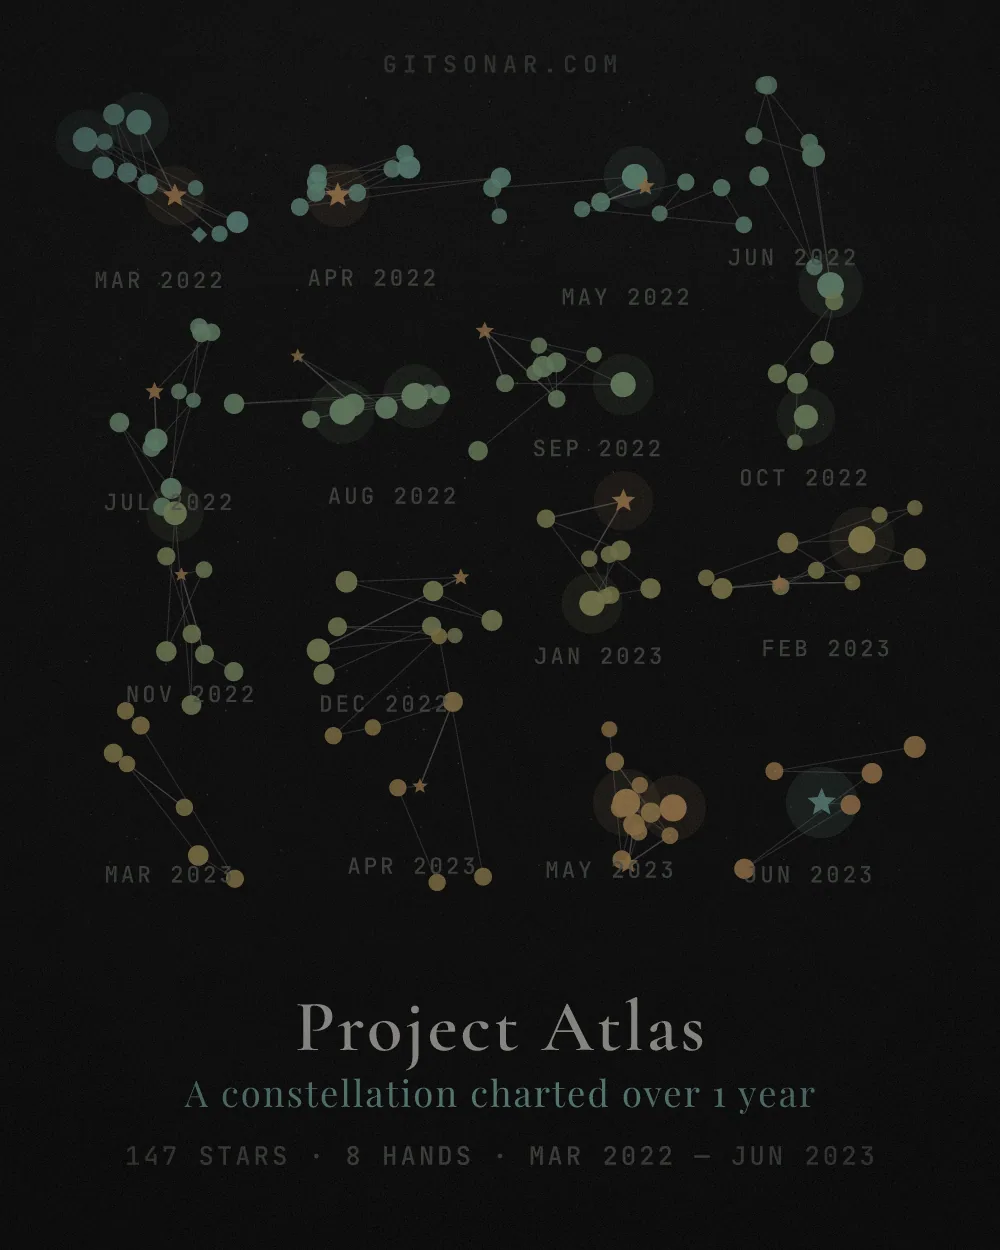
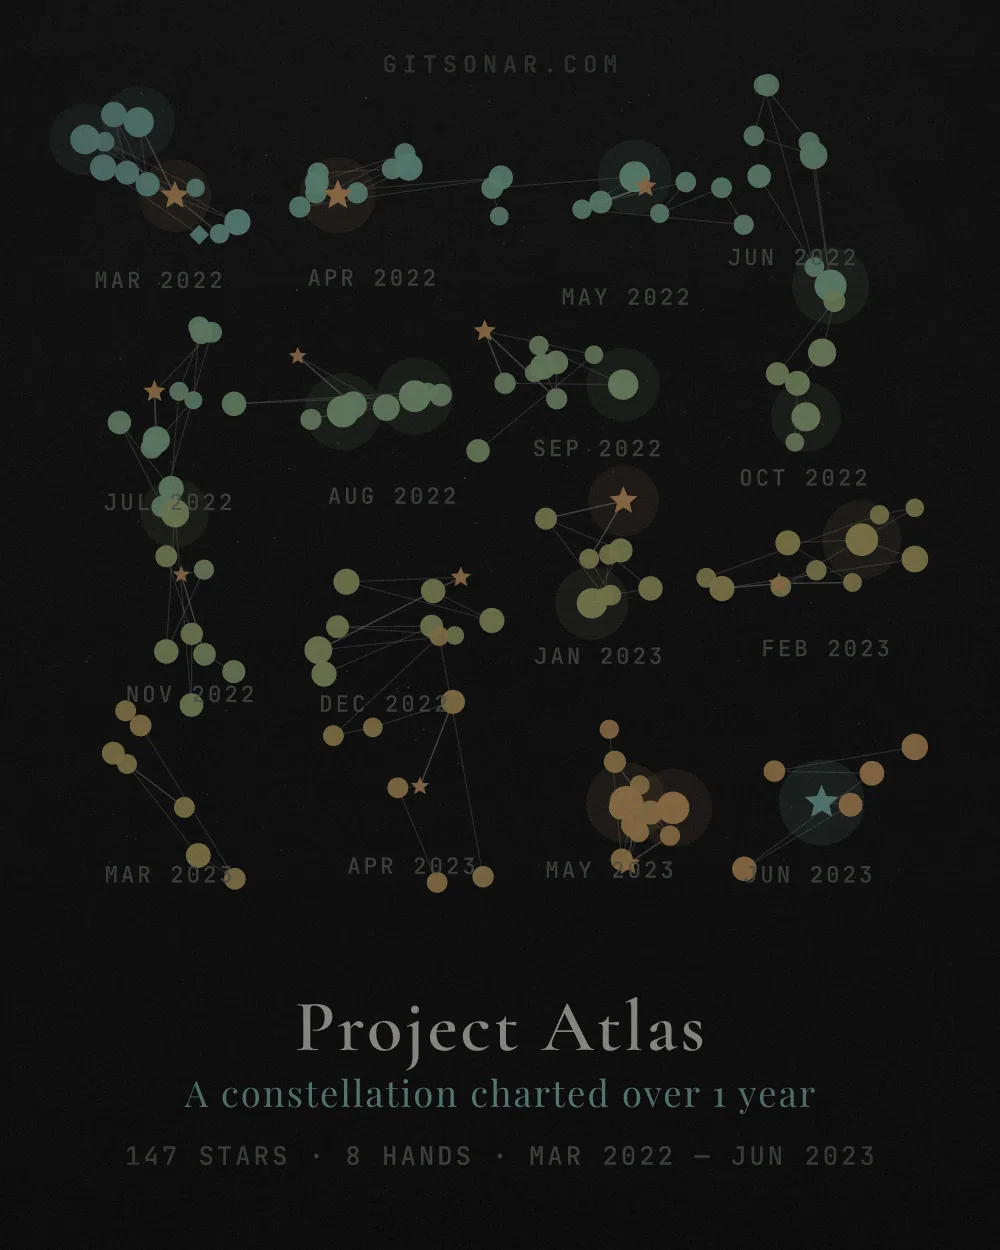
ui-hill-climb: round 3
Blind A/B (Claude Opus 5.5, fresh context): round 3 preferred on 8 views, 4 ties, 1 loss.

diff --git a/src/lib/demo-data/landing-posters.ts b/src/lib/demo-data/landing-posters.ts
@@ -22,20 +22,22 @@ interface Spec {
     medium: string;
 }
 
+// Ordered and themed so the wall alternates dark sheets, paper and colour
+// instead of bunching the dark ones together.
 const SPECS: Spec[] = [
     { id: 'pulsar', template: 'pulsar', themeId: 'night', label: 'Pulsar', medium: 'Commit cadence as ridgelines' },
     { id: 'growth-rings', template: 'growth-rings', themeId: 'paper', label: 'Growth rings', medium: 'One ring for every week' },
     { id: 'transit-map', template: 'transit-map', themeId: 'riso', label: 'Transit map', medium: 'Branches as lines, merges as interchanges' },
     { id: 'flow-field', template: 'flow-field', themeId: 'dawn', label: 'Flow field', medium: 'Authors as currents' },
-    { id: 'receipt', template: 'receipt', themeId: 'night', label: 'Receipt', medium: 'The whole history, itemised' },
+    { id: 'receipt', template: 'receipt', themeId: 'blueprint', label: 'Receipt', medium: 'The whole history, itemised' },
     { id: 'core-sample', template: 'core-sample', themeId: 'paper', label: 'Core sample', medium: 'A layer for every month' },
-    { id: 'punch-card', template: 'punch-card', themeId: 'blueprint', label: 'Punch card', medium: 'When the work happens' },
-    { id: 'weave', template: 'weave', themeId: 'night', label: 'Weave', medium: 'A row per week, dyed by its author' },
+    { id: 'punch-card', template: 'punch-card', themeId: 'night', label: 'Punch card', medium: 'When the work happens' },
+    { id: 'weave', template: 'weave', themeId: 'paper', label: 'Weave', medium: 'A row per week, dyed by its author' },
     { id: 'radial', template: 'radial-year', themeId: 'dawn', label: 'Year in code', medium: 'Twelve months in one orbit' },
     { id: 'album', template: 'album-tracklist', themeId: 'github', label: 'Album', medium: 'Top commits as a tracklist' },
     { id: 'movie', template: 'movie-one-sheet', themeId: 'night', label: 'Movie one-sheet', medium: 'The history, with full billing' },
+    { id: 'festival', template: 'festival', themeId: 'riso', label: 'Festival lineup', medium: 'Authors as the lineup' },
     { id: 'constellation', template: 'constellation', themeId: 'night', label: 'Constellation', medium: 'Every commit a star' },
-    { id: 'festival', template: 'festival', themeId: 'dracula', label: 'Festival lineup', medium: 'Authors as the lineup' },
     { id: 'swiss', template: 'swiss', themeId: 'paper', label: 'Swiss grid', medium: 'The numbers, set on a grid' },
 ];
 

diff --git a/src/lib/art/templates/constellation.ts b/src/lib/art/templates/constellation.ts
@@ -43,7 +43,7 @@ function build(ctx: TemplateContext): Scene {
     // The sky is divided into loose cells in reading order, so time still runs
     // left to right and top to bottom; each cell holds one month's commits as
     // a small, stretched cluster. The roll moves and turns every cluster.
-    const starBase = Math.max(2, Math.min(sky.w, sky.h) / 120);
+    const starBase = Math.max(2, Math.min(sky.w, sky.h) / 100);
     const spanDays = Math.max(1, signals.timeSpanMs / 86_400_000);
     const groups = Math.max(3, Math.min(16, Math.round(spanDays / 30)));
     const cols = Math.max(2, Math.round(Math.sqrt(groups * (sky.w / sky.h))));
@@ -100,7 +100,7 @@ function build(ctx: TemplateContext): Scene {
             // Time-tinted star color: older = accent2, newer = accent.
             fill: isMerge ? palette.accent2 : palette.sequential(t),
             shape: isRoot ? 'diamond' : isMerge ? 'star' : 'circle',
-            opacity: 0.7 + 0.3 * bright,
+            opacity: 0.85 + 0.15 * bright,
             glow: bright > 0.78 ? Math.min(1, encoding.glow * 0.7 + bright * 0.3) : 0,
             sha: n.id.slice(0, 7),
             kind: isRoot ? 'root' : isMerge ? 'merge' : 'normal',
@@ -204,7 +204,7 @@ function build(ctx: TemplateContext): Scene {
             color: adjustLightness(palette.bg, 0.03),
             color2: adjustLightness(palette.bg, -0.04),
             angle: 90,
-            vignette: 0.55,
+            vignette: 0.3,
             grain: 0.04,
         },
         strokes: [],

diff --git a/src/styles/studio.css b/src/styles/studio.css
@@ -885,6 +885,11 @@ html[data-lights="off"] .ps-swatches button {
   background: #16181a;
 }
 
+/* After hours the checked box keeps a pale edge so it still reads as a box. */
+html[data-lights="off"] .ps-checks input:checked {
+  border-color: #fbfbf8;
+}
+
 .ps-checks input:checked::after {
   content: "";
   width: 0.5rem;
@@ -942,7 +947,7 @@ html[data-lights="off"] .ps-swatches button {
 
   /* Short enough that the style strip and the first controls show beneath it. */
   .ps-stage {
-    height: 50dvh;
+    height: 57dvh;
     min-height: 20rem;
   }
 
@@ -977,7 +982,6 @@ html[data-lights="off"] .ps-swatches button {
   }
 
   .ps-tray__text span,
-  .ps-listen span,
   .ps-plaque {
     display: none;
   }
@@ -1013,6 +1017,18 @@ html[data-lights="off"] .ps-swatches button {
     margin: 0;
     border-top: 1px solid var(--line);
     border-bottom: 0;
+  }
+
+  /* Whatever scrolls beneath the bar fades out instead of being sliced. */
+  .ps-actions::before {
+    content: "";
+    position: absolute;
+    left: 0;
+    right: 0;
+    bottom: calc(100% + 1px);
+    height: 2.5rem;
+    background: linear-gradient(rgba(var(--paper-rgb), 0), var(--paper));
+    pointer-events: none;
   }
 
   .ps-pop {

diff --git a/src/styles/global.css b/src/styles/global.css
@@ -31,12 +31,12 @@
 
 :root {
   /* Gallery palette */
-  --wall: #dcdfdb;
-  --wall-hi: #dfe2de;
-  --wall-lo: #d0d4cf;
-  --wall-end: #d6d9d5;
+  --wall: #d3d7d2;
+  --wall-hi: #d8dcd7;
+  --wall-lo: #c5cac5;
+  --wall-end: #cdd1cc;
   /* How strongly the picture lights read on the plaster. */
-  --spot: rgba(255, 255, 255, 0.78);
+  --spot: rgba(255, 255, 255, 0.92);
   --skirting: #eceeeb;
   --paper: #f7f7f4;
   --paper-rgb: 247, 247, 244;
@@ -48,7 +48,7 @@
   --seg: #e6e8e3;
   --ink: #16181a;
   --ink-2: #43494c;
-  --ink-3: #596063;
+  --ink-3: #4f5558;
   --line: #d5d8d3;
   --line-2: #b9bdb8;
   --dot: #d92b25;
@@ -308,8 +308,8 @@ select {
   background: linear-gradient(
     112deg,
     transparent 30%,
-    rgba(255, 255, 255, 0.16) 44%,
-    rgba(255, 255, 255, 0.04) 52%,
+    rgba(255, 255, 255, 0.07) 44%,
+    rgba(255, 255, 255, 0.02) 52%,
     transparent 62%
   );
   background-size: 260% 100%;
@@ -358,6 +358,7 @@ select {
   line-height: 1.35;
   color: var(--ink);
   text-decoration: none;
+  text-wrap: pretty;
 }
 
 /* After hours a black frame would vanish into the wall; give it a rim of light. */

diff --git a/src/styles/app.css b/src/styles/app.css
@@ -160,7 +160,7 @@
 
 /* Fields are paper: they stay white card with dark ink after hours. */
 html[data-lights="off"] .app .g-field {
-  background: #fbfbf8;
+  background-color: #fbfbf8;
 }
 
 .graph-container {
